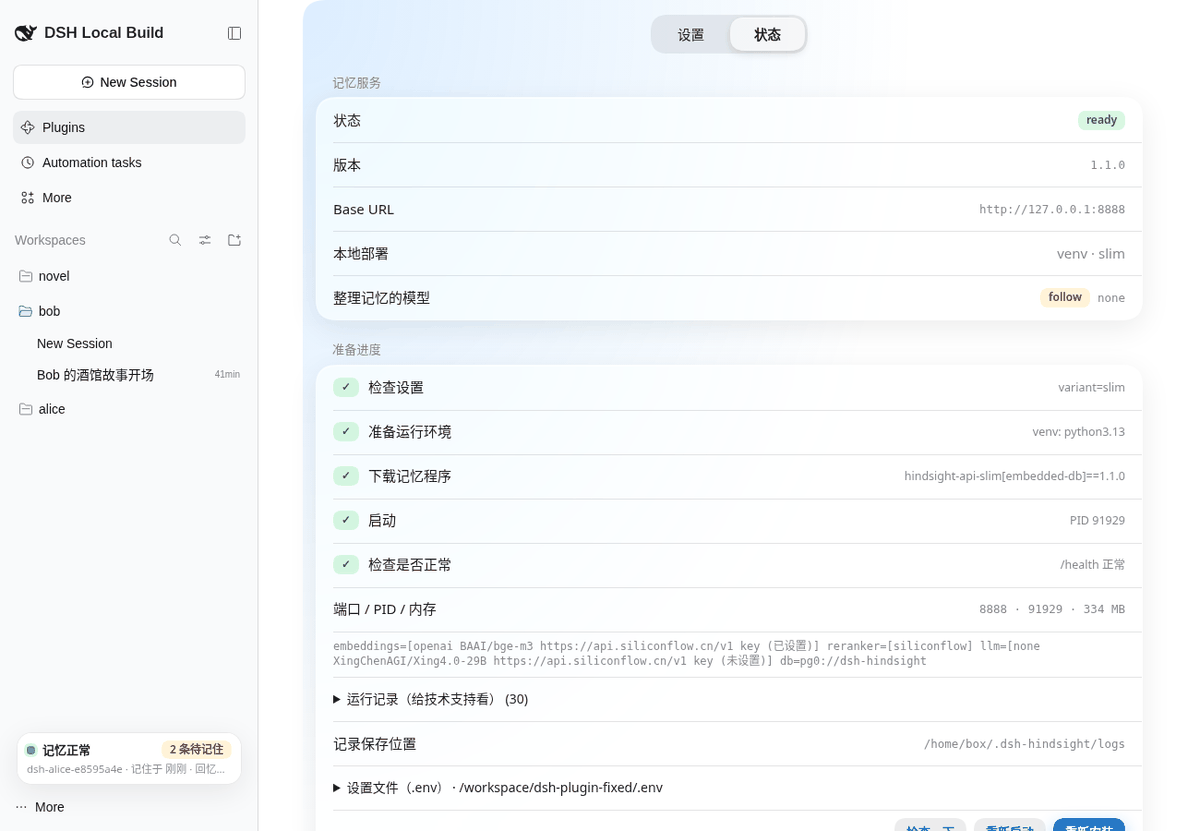
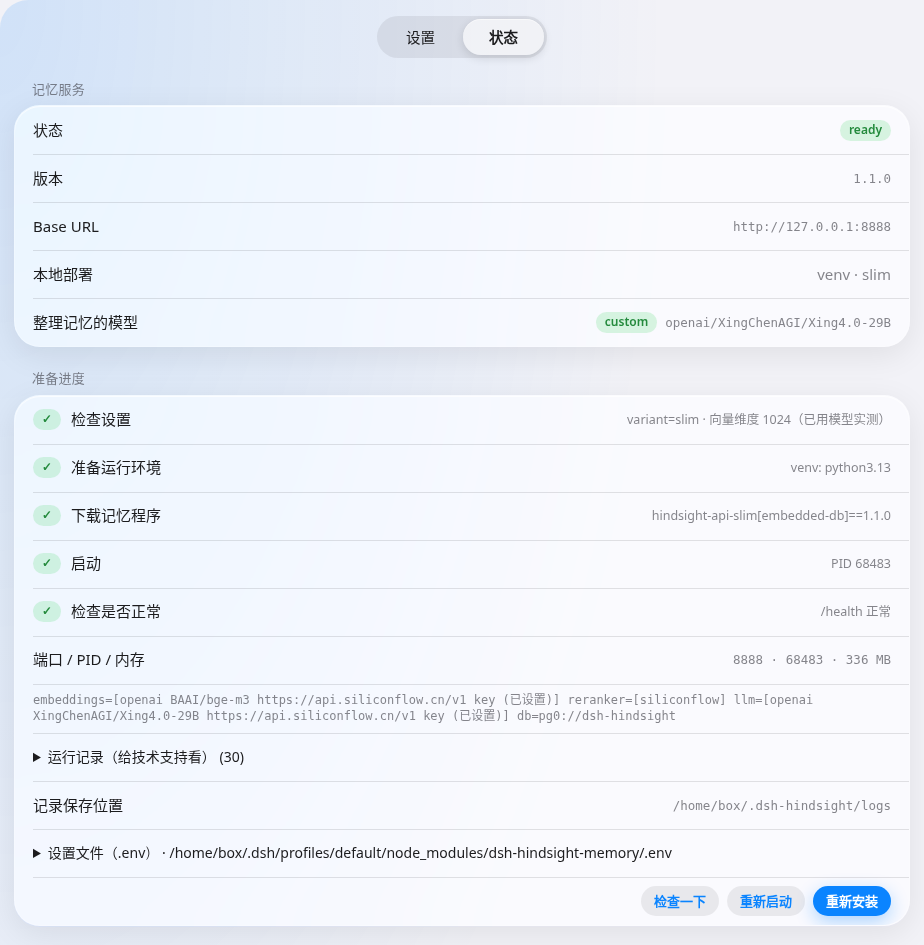
已有服务模式：中文错误提示、中途断开自动补记；记忆库绑定 e2e 测试；迁移和备份记忆文档；重拍状态页/高级设置截图

diff --git a/lib/lifecycle.js b/lib/lifecycle.js
@@ -20,7 +20,7 @@ import { HindsightClient } from './client.js'
 import { planLocal, localVariant, localEnv } from './local.js'
 import { ensureUv, uvPythonEnv } from './bootstrap.js'
 import { syncDotenv, PLUGIN_ROOT } from './dotenv.js'
-import { preflightEnv, summarizeEnv, logPath, tailFile, explainFailure, LOG_DIR } from './deploy.js'
+import { preflightEnv, summarizeEnv, logPath, tailFile, explainFailure, friendlyConnError, LOG_DIR } from './deploy.js'
 import { expectedDim, probeEmbeddingDim, readRecordedDim, recordDim, compareDims } from './dimension.js'
 
 /** PID of the Hindsight child we spawned last; lets a restarted dsh wait for a still-exiting old instance. */
@@ -209,8 +209,27 @@ export class HindsightService {
     const every = this.retryDelay || base
     if (Date.now() - (this.lastAttemptAt || 0) < every) return
     // Exponential backoff for repeated failures: 30s, 60s, 120s ... capped at 10 min.
-    this.retryDelay = Math.min(600000, every * 2)
+    // An existing server is cheap to probe: never wait more than a minute between checks.
+    this.retryDelay = Math.min(this.config.setup === 'existing' ? 60000 : 600000, every * 2)
     void this.ensureReady(reason).catch(() => false)
+  }
+
+  /**
+   * A request failed while we thought the server was up (stopped mid-session, wrong key, ...).
+   * Flip to degraded so writes wait instead of being dropped; the runtime's catch-up loop
+   * re-probes and, once healthy again, re-sends everything after the per-session cursor.
+   */
+  markUnreachable(error) {
+    const st = Number(error?.status) || 0
+    if (this.state !== 'ready' || this.stopping) return false
+    if (st && st < 500 && st !== 401 && st !== 403 && st !== 408) return false // a bad request, not an outage
+    this.state = 'degraded'
+    this.lastError = friendlyConnError(error, this.baseUrl) || String(error?.message || error)
+    this.retryDelay = 0
+    const base = Math.max(5000, Number(this.config.service.retry_degraded_ms) || 30000)
+    this.lastAttemptAt = Date.now() - base + 5000 // first re-probe in ~5s
+    this.#warn(`Hindsight became unreachable at ${this.baseUrl}: ${this.lastError}`)
+    return true
   }
 
   ensureReady(reason = 'startup') {
@@ -241,6 +260,18 @@ export class HindsightService {
       this.state = 'degraded'
       return false
     }
+    if (probe.ok && this.config.setup === 'existing') {
+      // /health needs no auth: check the key against a real endpoint before declaring ready.
+      try { await this.client.listBanks() } catch (error) {
+        const st = Number(error?.status) || 0
+        if (st === 401 || st === 403) {
+          this.state = 'degraded'
+          this.lastError = friendlyConnError(error, this.baseUrl)
+          this.#warn(`Hindsight at ${this.baseUrl} rejected the API key (${st}); running without long-term memory`)
+          return false
+        }
+      }
+    }
     if (probe.ok) {
       this.state = 'ready'
       this.retryDelay = 0
@@ -259,7 +290,9 @@ export class HindsightService {
     }
     if (!svc.autostart || svc.mode === 'attach') {
       this.state = 'degraded'
-      this.lastError = probe.error || `health returned ${probe.status}`
+      const raw = probe.error || `health returned ${probe.status}`
+      const hint = friendlyConnError({ status: probe.status, message: probe.error }, this.baseUrl)
+      this.lastError = hint ? `${hint}（${raw}）` : raw
       this.#warn(
         `Hindsight not reachable at ${this.baseUrl} (${this.lastError}); ` +
           `running without long-term memory (autostart=${svc.autostart}, mode=${svc.mode})`

diff --git a/lib/deploy.js b/lib/deploy.js
@@ -118,6 +118,23 @@ const RULES = [
 ]
 
 /** Chinese explanation for a failure log/text; '' when unknown. */
+/** Beginner hint for "can't talk to the Hindsight server" (existing service or our own child). */
+export function friendlyConnError(error, baseUrl = '') {
+  const status = Number(error?.status) || 0
+  const msg = String(error?.message || error || '') + ' ' + String(error?.cause?.code || error?.cause?.message || '')
+  const keep = '没写进去的对话会先留着，服务恢复后会自动补记。'
+  if (status === 401 || status === 403 || /\b40[13]\b|unauthori[sz]ed|forbidden/i.test(msg)) {
+    return `记忆服务拒绝了访问（密钥不对）：请在设置里检查「Hindsight API Key」，要和服务端的 HINDSIGHT_API_TENANT_API_KEY 一模一样。${keep}`
+  }
+  if (/ENOTFOUND|EAI_AGAIN|getaddrinfo/i.test(msg)) return `找不到记忆服务的地址 ${baseUrl}：请检查设置里的「地址」有没有拼错。${keep}`
+  if (/timeout|timed out|aborted|ETIMEDOUT/i.test(msg)) return `记忆服务 ${baseUrl} 响应超时：服务可能卡住了或网络不通，请稍后再试或重启服务。${keep}`
+  if (status >= 500) return `记忆服务 ${baseUrl} 出错了（${status}）：请查看服务的日志。${keep}`
+  if (/ECONNREFUSED|ECONNRESET|fetch failed|socket|network|connect/i.test(msg) || !status) {
+    return `连不上记忆服务 ${baseUrl}：服务没有在运行，或者地址/端口填错了。请先启动 Hindsight，再检查设置里的「地址」。${keep}`
+  }
+  return ''
+}
+
 export function explainFailure(text) {
   const s = String(text || '')
   const hits = RULES.filter(([re]) => re.test(s)).map(([, msg]) => msg)

diff --git a/lib/runtime.js b/lib/runtime.js
@@ -231,6 +231,7 @@ export class MemoryRuntime {
     } catch (error) {
       this.stats.recallsFailed += 1
       this.recallFailures += 1
+      this.service.markUnreachable?.(error)
       // 429 / timeout / embedding outage: back off for this bank instead of retrying every step.
       const cooldownMs = Math.max(0, Number(cfg.recall.cooldown_ms) || 0)
       if (cooldownMs > 0) this.recallCooldown.set(workspace.bankId, Date.now() + cooldownMs)
@@ -266,6 +267,7 @@ export class MemoryRuntime {
       .catch((error) => {
         this.stats.retainsFailed += 1
         this.logger.warn(`retain failed: ${errorMessage(error)}`)
+        this.service.markUnreachable?.(error)
       })
       .finally(() => {
         this.inFlight.delete(task)

diff --git a/docs/使用文档.md b/docs/使用文档.md
@@ -220,6 +220,111 @@ dsh 左侧栏底部有一张记忆状态小卡片，比如「记忆正常」「1
 
 ![最近与失败写入](images/31-最近与失败写入.png)
 
+## 迁移和备份记忆
+
+> 下面每一步都在 Linux 上实际做过一遍（2026-10-24，Hindsight 1.1.0）。标「⚠ 未在真机核实」的是 Windows / Mac 上的对应位置，作者还没有在真机上确认过；标「暂不支持」的是插件目前做不到的。
+
+### 1. 记忆存在哪里
+
+| 内容 | Linux / Mac | Windows（⚠ 未在真机核实） |
+|---|---|---|
+| **记忆本身**（数据库，最重要） | `~/.pg0/instances/dsh-hindsight/` | `C:\Users\你的用户名\.pg0\instances\dsh-hindsight\` |
+| 服务设置（含密钥、向量维度） | 插件文件夹里的 `.env`，例如 `~/.dsh/profiles/default/node_modules/dsh-hindsight-memory/.env` | `C:\Users\你的用户名\.dsh\profiles\default\node_modules\dsh-hindsight-memory\.env` |
+| 哪些对话已经记过（防止重复写） | `~/.dsh-hindsight/state/` | `C:\Users\你的用户名\.dsh-hindsight\state\` |
+| 上次成功启动时的向量维度 | `~/.dsh-hindsight/embedding-dim.json` | `C:\Users\你的用户名\.dsh-hindsight\embedding-dim.json` |
+| 日志 | `~/.dsh-hindsight/logs/` | `C:\Users\你的用户名\.dsh-hindsight\logs\` |
+
+「哪个工作区用哪个记忆库」这类面板设置保存在 dsh 自己的插件设置里，不在 `.env`。
+
+### 2. 备份（最简单、最稳的方法）
+
+1. **完全退出 dsh**（不是最小化）。插件启动的本地记忆服务会跟着停下——数据库正在运行时复制，备份可能是坏的。
+2. 确认服务真的停了：在浏览器打开 `http://127.0.0.1:8888/health`，应该**打不开**。
+3. 把下面三样复制到 U 盘或网盘（实测：用下面的命令打包，删掉原数据后解压回原位，8 个记忆库的条数、每条内容和时间一模一样，也没有重复写入）：
+   - `~/.pg0/instances/dsh-hindsight/` 整个文件夹
+   - `~/.dsh-hindsight/` 整个文件夹（里面的 `venv` 很大，可以不备份，丢了插件会重新下载）
+   - 插件文件夹里的 `.env`
+4. `.env` 里有你的密钥，**不要发给别人、不要传到公开的地方**。
+
+Linux 上可以用一条命令打包（先退出 dsh）：
+
+```bash
+tar czf ~/dsh-记忆备份-$(date +%F).tar.gz -C ~ .pg0/instances/dsh-hindsight .dsh-hindsight/state .dsh-hindsight/embedding-dim.json
+```
+
+### 3. 把本地记忆迁移成独立服务
+
+适合：想让记忆服务一直开着（不跟着 dsh 开关），或者以后给多个程序用。实测在同一台电脑上，**直接用原来那份数据**（不用复制）就行。
+
+1. **完全退出 dsh**，确认 `http://127.0.0.1:8888/health` 打不开。
+2. 新建一个文件夹，比如 `~/hindsight-server`，把插件文件夹里的 `.env` **复制**进去。
+3. 在这个文件夹里新建 `start.sh`，内容如下（Hindsight 程序就用插件已经装好的那份）：
+
+   ```bash
+   #!/bin/bash
+   # 独立运行 Hindsight（不依赖 dsh）。数据仍在 ~/.pg0/instances/dsh-hindsight
+   cd "$(dirname "$0")"
+   set -a; . ./.env; set +a
+   exec ~/.dsh-hindsight/venv/bin/hindsight-api --host 127.0.0.1 --port "${HINDSIGHT_API_PORT:-8888}"
+   ```
+
+4. 运行 `chmod +x start.sh && ./start.sh`，等到浏览器打开 `http://127.0.0.1:8888/health` 显示 `healthy`。
+5. 打开 dsh →「插件 → dsh-hindsight-memory」→ 设置，选 **「已经配置好了」**，地址填 `http://127.0.0.1:8888`，保存。
+6. 到「状态」页，看到 `ready` 和原来的记忆库就成功了：
+
+![已连接独立服务](images/34-已连接独立服务.png)
+
+实测结果：迁移前后两个记忆库的记忆条数（12 条、6 条）、对话数（4、2）和每条记忆的时间完全一致；问「我今天早上7点干了啥？」能找回 07:05 跑步那条；面板浏览、搜索正常；启动补录和「现在就记住」**不会**把已经记过的对话再写一遍。之后退出 dsh，独立服务继续运行——插件在「已经配置好了」模式下**不会**启动、停止或修改这个服务。
+
+注意：
+- 独立服务和插件的「本地部署」**不要同时开**：两边会抢同一份数据库和 8888 端口。迁移后插件就一直用「已经配置好了」。
+- 想加访问密码：启动前多设两个环境变量 `HINDSIGHT_API_TENANT_EXTENSION=hindsight_api.extensions.builtin.tenant:ApiKeyTenantExtension` 和 `HINDSIGHT_API_TENANT_API_KEY=你自己想的密码`，然后在插件设置的「Hindsight API Key」里填同一个密码。填错时面板会这样提示（实测）：
+
+![密钥不对](images/33-密钥不对.png)
+
+- 服务中途停了：卡片会显示「连不上记忆服务」，这期间聊的内容**不会丢**；把服务重新开起来，插件一分钟内会自己连上并把漏掉的对话补记进去（实测约 15～70 秒）。
+- 想回到插件自己管理：停掉独立服务，在设置里重新选「本地部署」即可，用的还是同一份数据（实测）。
+- 开机自动启动独立服务：暂不提供现成的做法（没有实测）。
+- Windows 上的启动脚本：⚠ 未在真机核实，暂不提供。
+
+### 4. 换新电脑 / 重装系统后找回记忆
+
+1. 在旧电脑上按「2. 备份」做好备份。
+2. 新电脑上先按本文前面的步骤装好 dsh 和插件，**先不要开始聊天**，然后完全退出 dsh。
+3. 把备份放回**同样的位置**：`~/.pg0/instances/dsh-hindsight/`、`~/.dsh-hindsight/state/`、`~/.dsh-hindsight/embedding-dim.json`，以及插件文件夹里的 `.env`。
+4. 打开 dsh，等卡片变绿，到「状态」页看记忆库数量是否和以前一样。
+
+说明：「打包 → 删掉原数据 → 解压回原位 → 打开 dsh」在同一台电脑上实测过，条数和内容完全一致；**跨两台不同电脑**的完整流程作者还没有实测，⚠ 请先保留好旧电脑上的数据再操作。另外，工作区路径变了（比如新电脑用户名不同）时，插件会按新路径算出新的记忆库名，旧记忆不会自动对上——这时可以在设置里用「工作区 → 记忆库」把新路径指到旧的记忆库名上。
+
+### 5. 合并工作区（多个工作区共用一个记忆库）
+
+1. 设置 →「工作区」，把要合并的几个工作区都选成同一个记忆库（可以选「新建记忆库」起个名字，比如 `dsh-shared`），保存。
+2. 之后这些工作区的**新对话**都写进这个共享库，互相能想起来；没有加进来的工作区想不起来（实测）。
+
+⚠ 重要：**旧记忆不会自动搬过去**。改完之后，旧对话的记忆还留在原来的记忆库里，在共享库里问不到（实测：合并后问「早上7点干了啥」找不到）。启动补录也不会重写已记过的对话。
+
+想把旧对话也写进共享库（实测可行）：
+1. 完全退出 dsh。
+2. 把 `~/.dsh-hindsight/state/` 文件夹改个名备份（例如 `state.bak`），这一步会让插件「忘记」哪些对话记过。
+3. 打开 dsh，启动补录会把所有未归档的对话按**现在的设置**重新写一遍（会花一些模型调用；已归档的对话不会写）。
+4. 原来的记忆库原样保留，不会被删除或改动；同一段对话在同一个库里不会出现两份。
+
+### 6. 拆分共享库
+
+把某个工作区在「工作区」设置里改回「不指定」（或指到另一个库），保存即可，之后它的新对话写进自己的库。和合并一样，**已经写进共享库的旧记忆不会搬走**，也不能按工作区从共享库里拆出来——**暂不支持**。如果要让拆出去的工作区带上旧记忆，按上面「想把旧对话也写进共享库」同样的步骤重新补录（它会写进新库，共享库里的那份仍然保留）。
+
+### 7. 向量维度（换模型、迁移前必看）
+
+「向量维度」就是模型把一句话变成多少个数字，在「设置 → 高级设置 → 理解文字的模型 → 向量维度」，默认 **1024**（默认模型 BAAI/bge-m3 就是 1024），一般不用改。
+
+- 记忆库建好后，里面的维度就固定了。**迁移、恢复备份时，向量维度和模型要和原来一样。**
+- 插件每次启动本地服务前会检查三样东西：你填的维度、模型实际输出的维度（发一次测试请求）、这个记忆库上次成功启动时的维度。只要有一个对不上，就**不启动服务**，并在面板上写清楚怎么改（实测，已有记忆没有任何改动）：
+
+![向量维度不一致](images/32-向量维度不一致.png)
+
+- 想换成不同维度的模型：要用一个新的空记忆库，旧记忆不能直接转换——**暂不支持**自动转换。
+- 「已经配置好了」模式下，维度由那台服务自己管：Hindsight 发现库里的维度和模型不一致时会直接拒绝启动，数据不会被破坏。
+
 ## 常见问题
 
 **Q：要花钱吗？**

diff --git a/README.md b/README.md
@@ -112,6 +112,7 @@ https://github.com/snakejohn/dsh-hindsight-local
 | 自动记住对话 `retain.enabled` | 开 | 关掉就不写入 |
 | 启动时补录旧对话 `backfill.enabled` | 开 | 把以前的对话也记住（不含已归档） |
 | 时区 `time.timezone` | 跟随系统 | 用于记忆时间和「早上 7 点」这类解析 |
+| 向量维度 `embedding.expected_dim` | 1024 | 理解文字的模型输出多少个数字（bge-m3 = 1024）。换模型或迁移时必须和原来一致，不一致时插件会拦下并用中文提示，不会写坏已有记忆 |
 | 端口 `service.local.port` | 8888 | 本地 Hindsight 监听的端口 |
 | LLM 超时 `service.local.llm_timeout` | 300 秒 | 慢模型也能整理完 |
 | 写入分块 `service.local.retain_chunk_size` | 1500 字符 | 长消息切小块处理，避免卡在「处理中」 |
@@ -167,6 +168,16 @@ v0.1.1 默认把长消息切成 1500 字符一块处理，并把超时放宽到 
 | 日志 | `~/.dsh-hindsight/logs/` |
 | 写入进度 | `~/.dsh-hindsight/state` |
 | 服务配置（含密钥） | 插件根目录的 `.env` |
+</details>
+
+<details><summary><b>怎么备份记忆、换电脑，或把本地服务改成独立服务？</b></summary>
+
+见使用文档的 [迁移和备份记忆](docs/使用文档.md#迁移和备份记忆) 一章：记忆存在哪里、怎么备份和恢复、怎么把插件自己的本地服务改成一直开着的独立服务、怎么合并或拆分记忆库。每一步都实测过，没实测的地方都标出来了。
+</details>
+
+<details><summary><b>我已经有一个 Hindsight 服务了，能直接用吗？</b></summary>
+
+能。设置里选「已经配置好了」，填地址（和密码，如果服务开了的话）。插件只连接它，**不会**启动、停止或修改它；服务中途停了，聊天照常，漏记的对话会在服务恢复后自动补上。
 </details>
 
 <details><summary><b>怎么卸载？</b></summary>

diff --git a/CHANGELOG.md b/CHANGELOG.md
@@ -5,7 +5,11 @@
 - 修复：只有日期的记忆被当成 08:00（UTC 0 点），召回和控制面板改用对话实际时间。
 - 改进：LLM 超时默认 300 秒；长消息写入默认分块 1500 字符、最大输出 8000（实测解决「处理中」卡住）。
 - 改进：已保存密钥时输入框显示「已保存过密钥」；控制面板时间改为中文 24 小时制。
-- 文档：README 重写；新增技术说明、Hindsight 控制面板章节、LoCoMo 压测数据。
+- 新增：「向量维度」设置（默认 1024，写入 `.env`，在高级设置里）。启动本地服务前比对设置值、模型实测输出和记忆库已有维度，不一致就不启动并用中文说明怎么改，已有记忆不会被写坏。
+- 修复：中文短对话被「太短不记」误丢（`min_turn_chars` 计数时中日韩文字按 2 个字符算）。
+- 改进：「已经配置好了」（连接已有服务）模式：密钥不对、地址填错、服务没开或中途停止时，卡片和状态页给出中文提示；服务中途停止期间的对话会排队，恢复后约 1 分钟内自动补记；插件不会启动、停止或修改外部服务。
+- 测试：新增向量维度、连接错误单元测试，以及用真实 Hindsight 跑的记忆库绑定端到端测试（工作区隔离、按角色/按对话、共享库、改映射、去重）。
+- 文档：README 重写；新增技术说明、Hindsight 控制面板章节、LoCoMo 压测数据；新增「迁移和备份记忆」一章（备份恢复、本地服务改成独立服务、换电脑、合并/拆分记忆库、向量维度），重拍状态页和高级设置截图。
 
 ## v0.1.0
 - 首个版本：三步设置、一键本地部署、自动记忆与召回、状态卡片与控制面板、小白使用文档。

diff --git a/docs/技术说明.md b/docs/技术说明.md
@@ -117,6 +117,7 @@ bank:
 | 键 | 默认 |
 | --- | --- |
 | `embedding.provider` / `base_url` / `api_key` / `model` / `dimensions` / `batch_size` | `''` / `''` / `''` / `''` / `0` / `0` |
+| `embedding.expected_dim`（`DSH_HINDSIGHT_EMBEDDING_DIM`） | `1024`：期望的向量维度。本地启动前与模型实测输出、`~/.dsh-hindsight/embedding-dim.json` 记录的库维度比对，不一致则不启动。注意 `embedding.dimensions` 是另一回事：非 0 时写 `HINDSIGHT_API_EMBEDDINGS_OPENAI_DIMENSIONS` 并作为 `dimensions` 参数发给服务商（硅基流动 bge-m3 会拒绝该参数，默认不发）。Hindsight 1.1.0 的 `vector(N)` 列在建库时固定，启动时空表会自动改维度、有数据则拒绝启动。 |
 | `reranker.enabled` / `provider` / `base_url` / `api_key` / `model` / `top_n` / `score_threshold` | `true` / `''` / `''` / `''` / `''` / `6` / `0.25` |
 | `llm.provider` / `base_url` / `api_key` / `model` / `temperature` / `max_tokens` / `context_window` | `''` / `''` / `''` / `''` / `0.2` / `1024` / `32768` |
 
